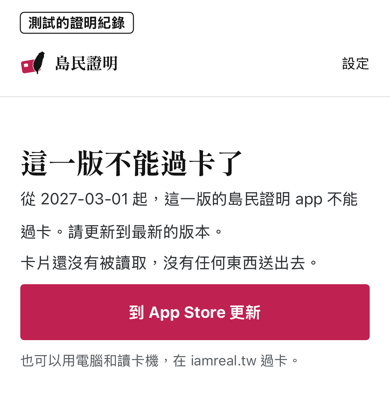
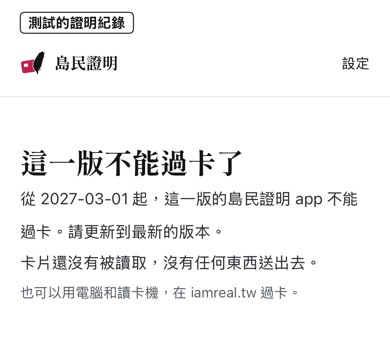
#172 審查的修正：PIN 的 5 分鐘從第一個字進到欄位算起，PIN 被丟掉時計時跟著停，時鐘往回調不延長，第三次感應前拿到題目後再查一次；卡片接受過的 PIN 在重試時送 PIN 途中離開照舊重送；換掉第 1 步的畫面在 config 改說可以時換回來；補後台沒回應的流程測試；截圖照這個 build（還沒有商店的按鈕）

Changed region(s): [[0.0308, 0.3429, 0.9538, 0.8857], [0.0308, 0.0286, 0.3385, 0.2286], [0.8615, 0.1143, 0.9538, 0.2]]

diff --git a/ios/App/CardProofModel.swift b/ios/App/CardProofModel.swift
@@ -47,7 +47,10 @@ final class CardProofModel: ObservableObject {
 
     @Published private(set) var screen: Screen
     /// What the PIN field holds. Emptied as soon as the PIN is handed on.
-    @Published var pinText = ""
+    @Published var pinText = "" {
+        // A PIN is in memory from its first character: its five minutes start then.
+        didSet { if oldValue.isEmpty, !pinText.isEmpty, pinDeadline == nil { startPINClock() } }
+    }
 
     /// The sentences, for what every screen has above its blocks.
     var copy: Copy { deps.copy }
@@ -66,8 +69,9 @@ final class CardProofModel: ObservableObject {
     /// What the server's lowest version says of this build, as the config
     /// last said. Until the config answers: as if it were not too old.
     private var version = MinApp.ok
-    /// When the PIN in memory is dropped whatever the card proof is at.
+    /// When the PIN in memory is dropped whatever the card proof is at, and when its five minutes started.
     private var pinDeadline: Date?
+    private var pinSince: Date?
     private var pinTimer: Task<Void, Never>?
     /// The card proof came back to step 1 after five minutes: step 1 says so until it starts again.
     private var idle = false
@@ -295,33 +299,65 @@ final class CardProofModel: ObservableObject {
 
     // The PIN's five minutes ---------------------------------------------------------
 
-    /// The PIN was taken from the field: from now it has five minutes.
+    /// A PIN came into memory, in the field: from now it has five minutes.
     private func startPINClock() {
-        let deadline = deps.flow.clock().addingTimeInterval(Self.pinLifetime)
-        pinDeadline = deadline
+        let now = deps.flow.clock()
+        pinSince = now
+        pinDeadline = now.addingTimeInterval(Self.pinLifetime)
         pinTimer?.cancel()
         pinTimer = Task { [weak self] in
-            try? await Task.sleep(nanoseconds: UInt64(Self.pinLifetime * 1_000_000_000))
-            // The system may have held the app meanwhile: the clock says.
-            if !Task.isCancelled { _ = self?.dropPINIfItsTimeIsUp() }
+            // Until the PIN is gone: the system may hold the app meanwhile, and the phone's clock may be set.
+            while !Task.isCancelled {
+                guard let self, let left = self.pinTimeLeft else { return }
+                if left <= 0 {
+                    if self.dropPINIfItsTimeIsUp() { return }
+                    // A tap or a request is under way: again when it has had time to end.
+                    try? await Task.sleep(nanoseconds: 1_000_000_000)
+                } else {
+                    try? await Task.sleep(nanoseconds: UInt64(min(left, Self.pinLifetime) * 1_000_000_000))
+                }
+            }
         }
     }
 
     private func stopPINClock() {
         pinDeadline = nil
+        pinSince = nil
         pinTimer?.cancel()
         pinTimer = nil
     }
 
-    /// Five minutes after the PIN was typed and a PIN still in memory: it
+    /// The seconds the PIN in memory still has; nil when no clock runs.
+    /// None left as well when the phone's clock is before the moment the
+    /// PIN was typed: a clock set back does not give the PIN more time.
+    private var pinTimeLeft: TimeInterval? {
+        guard let pinDeadline, let pinSince else { return nil }
+        let now = deps.flow.clock()
+        return now < pinSince ? 0 : pinDeadline.timeIntervalSince(now)
+    }
+
+    /// No PIN is in memory any more (it was sent the last time, or
+    /// dropped): its clock stops, so that it is not counted against the
+    /// next PIN typed.
+    private func stopPINClockIfThePINIsGone() {
+        if !holdsPIN { stopPINClock() }
+    }
+
+    /// Five minutes after a PIN came into memory and one still there: it
     /// is dropped with the card proof, and step 1 says why (card-proof.md,
     /// step 1, "app"). Not in the middle of a tap or a request: when that
-    /// ends. True when it did so.
+    /// ends (`run`), and before the PIN goes to the card the last time
+    /// (`declare`). True when it did so.
     @discardableResult
     private func dropPINIfItsTimeIsUp() -> Bool {
-        guard let pinDeadline, deps.flow.clock() >= pinDeadline, work == nil else { return false }
+        guard work == nil else { return false }
+        return dropPINNowIfItsTimeIsUp()
+    }
+
+    /// The same, also from inside the step under way.
+    private func dropPINNowIfItsTimeIsUp() -> Bool {
+        guard let left = pinTimeLeft, left <= 0 else { return false }
         guard holdsPIN else {
-            // The PIN is gone already: sent the last time, or dropped.
             stopPINClock()
             return false
         }
@@ -340,7 +376,7 @@ final class CardProofModel: ObservableObject {
         if dropPINIfItsTimeIsUp() { return }
         askAgain()
         // The operator may have stopped card proofs, or resumed them, meanwhile.
-        if flow == nil, screen.step == 1 { askConfigAgain() }
+        if flow == nil, screen.step <= 1 { askConfigAgain() }
     }
 
     /// Step 7 is up and says the system does not let the app notify: the
@@ -422,7 +458,8 @@ final class CardProofModel: ObservableObject {
     private func redraw() {
         if let finished {
             screen = afterSending(finished)
-        } else if flow == nil, screen.step == 1 {
+        } else if flow == nil, screen.step <= 1 {
+            // Step 1, or the screen in its place.
             screen = before()
         }
     }
@@ -587,6 +624,12 @@ final class CardProofModel: ObservableObject {
     // Tap 2 -------------------------------------------------------------------------
 
     private func confirmCard() async {
+        await confirmCardOnce()
+        // The PIN was refused or dropped: its five minutes are not the next PIN's.
+        stopPINClockIfThePINIsGone()
+    }
+
+    private func confirmCardOnce() async {
         guard let flow else { return }
         // The tap is made again: the PIN typed before is still here. One typed since takes its place.
         let pin: PIN
@@ -595,8 +638,6 @@ final class CardProofModel: ObservableObject {
         } else {
             self.pin?.clear()
             pin = PIN(pinText)
-            // A PIN newly in memory: its five minutes start.
-            if !pin.isEmpty { startPINClock() }
         }
         self.pin = nil
         pinText = ""
@@ -722,6 +763,8 @@ final class CardProofModel: ObservableObject {
             return
         }
         guard self.flow === flow else { return }
+        // The server took its time: the PIN does not go to the card past its five minutes.
+        if dropPINNowIfItsTimeIsUp() { return }
         reached = 1
         await signAndSubmit()
     }

diff --git a/ios/Tests/CardProofTests.swift b/ios/Tests/CardProofTests.swift
@@ -693,6 +693,109 @@ final class CardProofTests: XCTestCase {
         XCTAssertEqual(model.screen.warnings, [])
     }
 
+    /// A wrong PIN is dropped, and its five minutes with it: the PIN typed after it has its own.
+    func testAPINThatWasDroppedDoesNotCountAgainstTheNext() async throws {
+        try await onTheSecondDay()
+        let model = makeModel()
+        try await press("下一步", in: model)
+        try await press("感應卡片", in: model)
+        try await press("下一步", in: model)
+        model.pinText = "000000"
+        try await press("確認卡片", in: model)
+        XCTAssertTrue(model.screen.texts.contains("PIN 不正確。連續輸入錯誤三次，卡片會被鎖住。"))
+        // More than five minutes later the cardholder types the right one.
+        now = now.addingTimeInterval(6 * 60)
+        model.cameBack()
+        XCTAssertEqual(model.screen.step, 3, "no PIN was in memory: nothing to drop")
+        model.pinText = backend.pin
+        try await press("確認卡片", in: model)
+        XCTAssertEqual(model.screen.step, 4)
+        // And that one has five minutes from when it was typed.
+        now = now.addingTimeInterval(5 * 60)
+        model.cameBack()
+        XCTAssertEqual(model.screen.step, 1)
+        XCTAssertFalse(model.holdsPIN)
+    }
+
+    /// A PIN typed and left in the field is in memory too: five minutes later it is gone, with the card proof.
+    func testAPINLeftInTheFieldIsDroppedAfterFiveMinutes() async throws {
+        try await onTheSecondDay()
+        let model = makeModel()
+        try await press("下一步", in: model)
+        try await press("感應卡片", in: model)
+        try await press("下一步", in: model)
+        model.pinText = backend.pin
+        now = now.addingTimeInterval(5 * 60)
+        model.cameBack()
+        XCTAssertEqual(model.screen.step, 1)
+        XCTAssertEqual(model.pinText, "")
+        XCTAssertFalse(model.holdsPIN)
+        XCTAssertEqual(card.pinsReceived, 0)
+        // The phone's clock set back to before the PIN was typed gives it no more time.
+        try await press("下一步", in: model)
+        try await press("感應卡片", in: model)
+        try await press("下一步", in: model)
+        model.pinText = backend.pin
+        now = now.addingTimeInterval(-3600)
+        model.cameBack()
+        XCTAssertEqual(model.screen.step, 1)
+        XCTAssertFalse(model.holdsPIN)
+        now = now.addingTimeInterval(3600)
+    }
+
+    /// The card accepted the PIN and then left; in the tap made again it leaves while the PIN goes to it. The
+    /// PIN is the card's: it is not dropped, and the tap is made again (#133).
+    func testAPINTheCardAcceptedIsSentAgainWhereverTheNextTapLosesTheCard() async throws {
+        try await onTheSecondDay()
+        let model = makeModel()
+        try await press("下一步", in: model)
+        try await press("感應卡片", in: model)
+        try await press("下一步", in: model)
+        card.nextTapsFail = [.dropped(.accepted), .dropped(.sent)]
+        model.pinText = backend.pin
+        try await press("確認卡片", in: model)
+        XCTAssertEqual(model.screen.buttons.map(\.label), ["再感應一次"])
+        try await press("再感應一次", in: model)
+        XCTAssertTrue(model.screen.texts.contains("卡片在感應途中離開了手機。PIN 還在，不用再輸入，請再感應一次。"))
+        XCTAssertEqual(model.screen.buttons.map(\.label), ["再感應一次"])
+        XCTAssertTrue(model.holdsPIN)
+        try await press("再感應一次", in: model)
+        XCTAssertEqual(model.screen.step, 4)
+    }
+
+    // The server does not answer --------------------------------------------------------------------
+
+    /// The server does not answer when asked for its config: step 2 stops at its first item, before any card
+    /// is read, and the card is read again once it answers.
+    func testAServerThatDoesNotAnswerStopsBeforeTheFirstTap() async throws {
+        try await onTheSecondDay()
+        let model = makeModel(opened: false)
+        asked.configFails = true
+        values["network"] = "`X`"
+        try await press("下一步", in: model)
+        try await press("感應卡片", in: model)
+        XCTAssertEqual(model.screen.step, 2)
+        XCTAssertEqual(Array(model.screen.texts.dropFirst(4).prefix(3)), ["連上島民證明的伺服器", "停在這裡", "伺服器的回應不正確，現在不能過卡。請稍後再試。（代碼 network）"])
+        XCTAssertEqual(card.taps, [])
+        asked.configFails = false
+        try await press("再感應一次卡片", in: model)
+        try await press("感應卡片", in: model)
+        XCTAssertEqual(model.screen.buttons.map(\.label), ["下一步"])
+    }
+
+    /// From the day, the screen in the place of step 1 is drawn again when the config says otherwise: back in
+    /// the app after the server's lowest version was put back, step 1 is there again.
+    func testTheScreenOfAnOlderBuildGoesWhenTheConfigSaysOtherwise() async throws {
+        try await onTheSecondDay()
+        minApp = .stop("2027-03-01")
+        let model = makeModel()
+        while model.screen.step != 0 { await Task.yield() }
+        minApp = .ok
+        model.cameBack()
+        while model.screen.step != 1 { await Task.yield() }
+        XCTAssertEqual(model.screen.buttons.map(\.label), ["下一步"])
+    }
+
     // The lowest version, a phone without NFC (ADR-0035) ---------------------------------------------
 
     /// A build older than the server's lowest, before the day it starts on: said above step 1, with the way

diff --git a/ios/App/CardProofFlow.swift b/ios/App/CardProofFlow.swift
@@ -432,12 +432,22 @@ final class CardProofFlow {
     /// card that may have counted it wrong, with a PIN typed again otherwise.
     /// `signed` is called when the card has signed and can be taken away.
     func confirmCard(pin: PIN, signed: () -> Void) async throws -> CardStatus {
-        try await checksDone()
-        guard let session else { throw fail(Stop.state) }
+        // Whatever stops it before the tap: the PIN is not kept.
+        do {
+            try await checksDone()
+        } catch {
+            pin.clear()
+            throw error
+        }
+        guard let session else {
+            pin.clear()
+            throw fail(Stop.state)
+        }
         let scope: Data
         do {
             scope = try DeviceCore.scopeString(deps.proofLog)
         } catch {
+            pin.clear()
             throw fail(error)
         }
         var signature: Data
@@ -453,10 +463,12 @@ final class CardProofFlow {
             // a computer instead.
             pin.clear()
             throw Stop.card(.channel)
-        } catch let failure as CardFailure where Self.tapCanBeMadeAgain(failure) {
-            // The PIN did not go to a card that may have counted it wrong:
-            // it is the caller's still, for the same tap again.
-            throw Stop.card(failure)
+        } catch let failure as CardFailure where Self.tapCanBeMadeAgain(failure) || (failure == .dropped(.sent) && pin.accepted) {
+            // The PIN did not go to a card that may have counted it wrong
+            // (it never went, or the card has accepted it): it is the
+            // caller's still, for the same tap again.
+            if failure == .dropped(.accepted) { pin.accepted = true }
+            throw Stop.card(failure == .dropped(.sent) ? .dropped(.accepted) : failure)
         } catch CardFailure.dropped(.sent) {
             // The card left while the PIN was going to it, and has never
             // accepted this PIN: whether it counted a try is not known.
@@ -477,6 +489,7 @@ final class CardProofFlow {
             } catch let failure as DeviceCore.Failure where failure.code == IDC_ERR_INPUT {
                 throw Stop.cardSignature
             }
+            pin.accepted = true
             self.pin = pin
             scopeSignature = Secret(signature)
             Self.wipe(&signature)

diff --git a/ios/Tests/ScreensTests.swift b/ios/Tests/ScreensTests.swift
@@ -597,10 +597,11 @@ final class ScreensTests: XCTestCase {
         // screen, the settings with the reminder on. Step 7 is among the steps above.
         let reminderScreens: [(String, Screen)] = [
             ("app-reminder-4-from-notification-phone", screens.before(notice: ReminderScreens(appCopy: appCopy).fromNotification(snoozed: nil))),
-            // The lowest version and a phone without NFC, as a build that has its page in the store shows them.
-            ("app-update-soon-phone", inStore.before(updateFrom: "2027-03-01")),
-            ("app-update-required-phone", inStore.tooOld(from: "2027-03-01")),
-            ("app-no-nfc-phone", inStore.noNFC()),
+            // The lowest version and a phone without NFC, as this build shows them: it has no page in the store
+            // yet (AppEnvironment.storePage), so the sentences stand without the button.
+            ("app-update-soon-phone", screens.before(updateFrom: "2027-03-01")),
+            ("app-update-required-phone", screens.tooOld(from: "2027-03-01")),
+            ("app-no-nfc-phone", screens.noNFC()),
         ]
         for (name, screen) in reminderScreens {
             let drawn = await Self.draw(ScreenView(screen: screen, copy: copy, pinText: .constant(""), perform: { _ in }, type: { _, _ in }, unscrolled: true), height: nil)

diff --git a/ios/Tests/TestBackend.swift b/ios/Tests/TestBackend.swift
@@ -80,6 +80,8 @@ final class CountingBackend: Backend {
     private(set) var configRequests = 0
     /// The record does not reach the server: as a phone that lost the network.
     var submitFails = false
+    /// The server does not answer when asked for its config.
+    var configFails = false
 
     init(_ backend: Backend) {
         self.backend = backend
@@ -87,6 +89,7 @@ final class CountingBackend: Backend {
 
     func config() async throws -> Data {
         configRequests += 1
+        if configFails { throw BackendFailure(code: "network", requestID: nil) }
         return try await backend.config()
     }
 

diff --git a/ios/App/Card.swift b/ios/App/Card.swift
@@ -83,6 +83,10 @@ enum PINFate: Equatable {
 /// proof clears it when it is done, cancelled or stopped.
 final class PIN {
     private var bytes: [UInt8]
+    /// The card has accepted this PIN once: it is the card's. From then on
+    /// a tap that loses the card while the PIN goes to it is made again
+    /// with it (issue #133).
+    var accepted = false
 
     init(_ text: String) {
         bytes = Array(text.utf8)

diff --git a/ios/README.md b/ios/README.md
@@ -15,12 +15,12 @@
 | 第 1 次感應卡片離開、沒有感應到 | 寫原因，「再感應一次」只重做那一次 |
 | 在面板上按「取消」（第 1、2 次感應） | 回到按下之前的畫面，不寫原因；第 2 次的 PIN 還在 |
 | 第 2 次感應：卡片在 PIN 送出之前離開、在卡片接受 PIN 之後離開、沒有感應到、換了卡 | PIN 留在記憶體，「再感應一次」只重做那一次，不用再輸入 |
-| 第 2 次感應：卡片在送 PIN 的那一道指令離開，而且還沒有接受過這個 PIN | 不自動重送：丟掉 PIN，回到輸入的畫面，寫明不確定卡片有沒有收到 |
+| 第 2 次感應：卡片在送 PIN 的那一道指令離開，而且還沒有接受過這個 PIN | 不自動重送：丟掉 PIN，回到輸入的畫面，寫明不確定卡片有沒有收到。卡片接受過這個 PIN 之後（接受了、簽章時離開，再感應一次），在送 PIN 時離開照「再感應一次」 |
 | PIN 不正確、安全通道建立不起來 | 丟掉 PIN，回到輸入的畫面 |
 | 第 3 次感應：卡片離開（不管 PIN 送出了沒有：第 2 次已經被接受過）、沒有感應到、換了卡、按了「取消」 | PIN 留在記憶體，「再感應一次」只重做那一次；「取消」丟掉 PIN 回到開頭 |
-| PIN 從欄位拿走之後滿 5 分鐘、PIN 還在記憶體裡 | 丟掉 PIN 和做到一半的過卡，回到第 1 步，上面寫原因。感應或請求做到一半時等它結束。切到別的 app 再回來，5 分鐘內 PIN 還在；系統把 app 停在背景時計時不會跑，回到 app 的那一刻補查 |
+| PIN 的第一個字進到欄位之後滿 5 分鐘、PIN 還在記憶體裡（欄位裡的也算） | 丟掉 PIN 和做到一半的過卡，回到第 1 步，上面寫原因。感應或請求做到一半時等它結束。切到別的 app 再回來，5 分鐘內 PIN 還在；系統把 app 停在背景時計時不會跑，回到 app 的那一刻補查 |
 | app 被系統結束 | 從第 1 步來（上面「不寫磁碟」） |
-| 這一版比 `config` 的最低版本舊（`min_app`，由核心的 `idc_min_app` 讀，`spec/min-app.md`） | 起算日之前：第 1 步最上面提醒（在過卡提醒的那一段上面），照常過卡。起算日當天起：整個畫面換掉第 1 步，沒有任何通到感應或 PIN 的按鈕；打開 app 時和按「感應卡片」連上伺服器之後各看一次 |
+| 這一版比 `config` 的最低版本舊（`min_app`，由核心的 `idc_min_app` 讀，`spec/min-app.md`） | 起算日之前：第 1 步最上面提醒（在過卡提醒的那一段上面），照常過卡。起算日當天起：整個畫面換掉第 1 步，沒有任何通到感應或 PIN 的按鈕；打開 app 時、回到 app 時和按「感應卡片」連上伺服器之後各看一次；`config` 之後說可以了，畫面換回第 1 步 |
 | `min_app` 讀不懂（包括 app 自己的 build number 不是整數） | 第 2 步停在「連上島民證明的伺服器」，和 `config` 讀不懂相同，不讀卡 |
 | 手機不能讀卡（沒有 NFC） | 整個畫面換掉第 1 步 |
 
@@ -68,7 +68,7 @@
 
 要檢查它們有沒有離開手機，看這幾個檔就夠：
 
-- **PIN**：從畫面的欄位（`CardProofView` 的 `SecureField`，值在 `CardProofModel.pinText`）進 `PIN`，按下「確認卡片」時欄位清空。`PIN` 交給 `CardProofFlow`，留到第三次感應送給卡片為止；完成、取消、停下來、卡片回 PIN 不正確、安全通道建立不起來時蓋成零。唯一收 PIN 的對外介面是 `CardConnection.sign`：`GpkiCard.sign` 把它補成 VERIFY 的資料（`CardChannel.pinBlock`），只在安全通道建立之後、加密著送給卡片；安全通道建立不起來（`CardFailure.channel`）、是第一代的卡片（`CardFailure.firstGeneration`）時不送。PIN 的長度或字元沒有卡片收（6 到 10 個可列印的 ASCII 字元以外，`CardChannel.cardTakes`）時，按「確認卡片」不出現面板，PIN 丟掉，請持卡人再輸入一次。`Backend`、`DeviceCore` 沒有任何函式收 PIN
+- **PIN**：從畫面的欄位（`CardProofView` 的 `SecureField`，值在 `CardProofModel.pinText`）進 `PIN`，按下「確認卡片」時欄位清空。`PIN` 交給 `CardProofFlow`，留到第三次感應送給卡片為止，最長 5 分鐘（#133）；完成、取消、停下來、卡片回 PIN 不正確、安全通道建立不起來、送 PIN 時卡片離開而卡片還沒有接受過這個 PIN、滿 5 分鐘時蓋成零。感應沒有做完而 PIN 可以再用時（卡片離開、沒有感應到、換了卡、在面板上按取消），第二次感應的 PIN 留在 `CardProofModel.pin` 等「再感應一次」，第三次的留在 `CardProofFlow`；這時輸入新的 PIN，舊的先蓋成零。5 分鐘從 PIN 的第一個字進到欄位算起（`CardProofModel` 的 `startPINClock`），照手機的時鐘；時鐘被往回調到那之前也算到期。到期時感應或請求正在做的話等它結束；第三次感應前等伺服器回題目之後再查一次，過了就不送。面板等卡片最多 60 秒，這段不算在內。唯一收 PIN 的對外介面是 `CardConnection.sign`：`GpkiCard.sign` 把它補成 VERIFY 的資料（`CardChannel.pinBlock`），只在安全通道建立之後、加密著送給卡片；安全通道建立不起來（`CardFailure.channel`）、是第一代的卡片（`CardFailure.firstGeneration`）時不送。PIN 的長度或字元沒有卡片收（6 到 10 個可列印的 ASCII 字元以外，`CardChannel.cardTakes`）時，按「確認卡片」不出現面板，PIN 丟掉，請持卡人再輸入一次。`Backend`、`DeviceCore` 沒有任何函式收 PIN
 - **第二、第三次感應**：`CardProofFlow.signTap` 先再讀一次憑證，第一次感應選定的那一張要在裡面，才把 PIN 交給卡片；不在就是 `CardFailure.otherCard`，PIN 沒有送
 - **憑證和簽章**：選定的憑證和第一個簽章留在 `CardProofFlow`，證明算完就蓋成零；核心自己的那一份跟著 session 蓋掉
 - **姓名**：核心檢查憑證後回傳，只交給「輸入 PIN」的畫面

diff --git a/design/screens/README.md b/design/screens/README.md
@@ -103,6 +103,6 @@ Android 的實作版由模擬器上的過卡測試（`android/test/card-proof.ts
 | `app-reminder-4-from-notification-phone.png` | 從通知點進來的第 1 步 | 實作版（iOS） |
 | `app-settings-phone.png` | 設定，提醒開著 | 實作版（iOS） |
 | `app-splash-phone.png` | 啟動畫面（Android 的實作版由模擬器上的過卡測試拍，同上） | 實作版（Android） |
-| `app-update-soon-phone.png` | 這一版快不能過卡了 | 實作版（iOS） |
+| `app-update-soon-phone.png` | 這一版快不能過卡了。「到 App Store 更新」的按鈕等 app 在 App Store 的頁面定了才有（`ios/README.md`），這一張和下一張還沒有 | 實作版（iOS） |
 | `app-update-required-phone.png` | 這一版不能過卡了 | 實作版（iOS） |
 | `app-no-nfc-phone.png` | 這支手機沒有 NFC | 實作版（iOS） |
